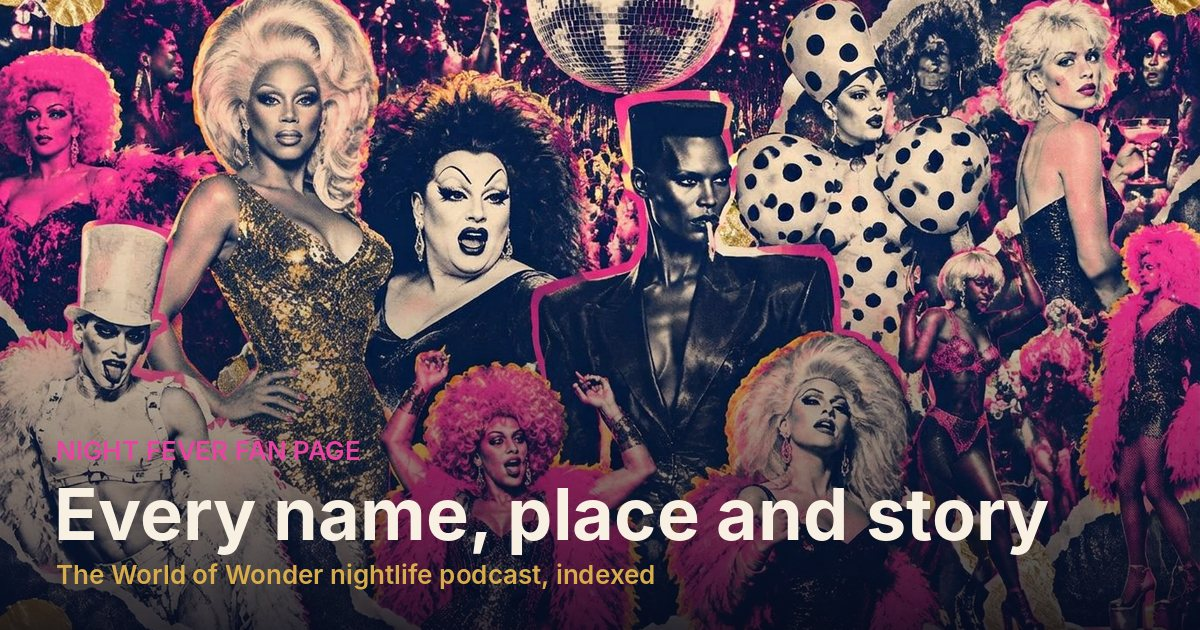
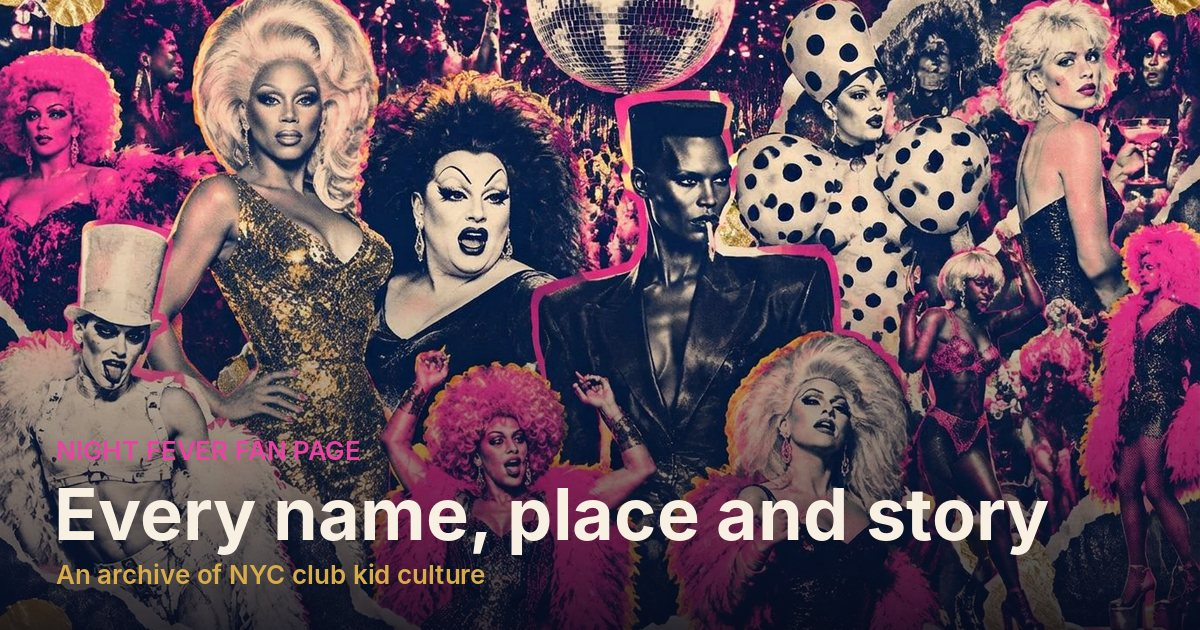
SEO: tagline says the AFTERPARTY is an archive of NYC club kid culture, not a nightlife listings page (home title + description, site-wide description, share text, WebSite JSON-LD, home share picture)
Claude-Session: https://claude.ai/code/session_0192FesoRAKWHZAxeX5KM4ju

Changed region(s): [[0.0308, 0.8746, 0.555, 0.9349]]

diff --git a/src/routes/__root.tsx b/src/routes/__root.tsx
@@ -85,18 +85,18 @@ export const Route = createRootRouteWithContext<{ queryClient: QueryClient }>()(
       { name: "google-site-verification", content: "D1N8TQwOz9IS3c8V40Mwe8r72YsHRgNF2sxzCSOvN5Y" },
       // Search Console property for the own domain https://nightfever-afterparty.com/ (27 Oct 2026) - keep both tags
       { name: "google-site-verification", content: "OSmYxOhIBmHN5GpMphTNxkQz4bBQpsoNDsKShQOGQ1k" },
-      { title: "Night Fever AFTERPARTY - a fan page | every name, place and story" },
+      { title: "Night Fever AFTERPARTY - a fan page | an archive of NYC club kid culture" },
       {
         name: "description",
         content:
-          "My fan-made index of the Night Fever podcast by World of Wonder - timelines, a connection map and a timestamped list of every name, place, song and story. Dive in!",
+          "My fan-made archive of NYC club kid culture from the Night Fever podcast by World of Wonder - every name, club, song and story the guests drop, timestamped. Dive in!",
       },
       { name: "author", content: "Lisa Lang" },
       { property: "og:title", content: "Night Fever AFTERPARTY - a fan page" },
       {
         property: "og:description",
         content:
-          "Every name, place, song and story dropped in the Night Fever interviews - indexed, timestamped and connected!",
+          "An archive of NYC club kid culture: every name, place, song and story dropped in the Night Fever interviews - indexed, timestamped and connected!",
       },
       { property: "og:type", content: "website" },
       { property: "og:site_name", content: "Night Fever AFTERPARTY - a fan page" },
@@ -117,7 +117,7 @@ export const Route = createRootRouteWithContext<{ queryClient: QueryClient }>()(
           alternateName: ["Night Fever AFTERPARTY", "Night Fever fan page"],
           url: "https://nightfever-afterparty.com/",
           description:
-            "An unofficial fan-made index of the Night Fever podcast by World of Wonder: every name, club, place and look the guests mention, timestamped and connected.",
+            "An unofficial fan-made archive of NYC club kid culture, built from the Night Fever podcast by World of Wonder: every name, club, place and look the guests mention, timestamped and connected.",
           inLanguage: "en",
           author: { "@type": "Person", name: "Lisa Lang" },
           about: {

diff --git a/src/routes/index.tsx b/src/routes/index.tsx
@@ -13,7 +13,7 @@ import afterpartyFill from "@/assets/home-afterparty-fill.webp";
 export const Route = createFileRoute("/")({
   staticData: { sitemap: true },
   component: Index,
-  head: () => pageHead({ path: "/", title: "Night Fever podcast fan page – NYC nightlife names, clubs & stories", description: "My fan page for Night Fever, the World of Wonder podcast with James St. James, Fenton Bailey and Randy Barbato - New York nightlife, unpacked and timestamped!", image: "/og/home.jpg" }),
+  head: () => pageHead({ path: "/", title: "Night Fever AFTERPARTY – an archive of NYC club kid culture", description: "My fan-made archive of NYC club kid culture from Night Fever, the World of Wonder podcast with James St. James, Fenton Bailey and Randy Barbato - unpacked and timestamped!", image: "/og/home.jpg" }),
 });
 
 const hosts = [

diff --git a/scripts/og-images.py b/scripts/og-images.py
@@ -69,7 +69,7 @@ for k,(f,g,s,e) in EP.items():
         bg=cover(im).filter(ImageFilter.GaussianBlur(24)); p=im.convert("RGB").resize((H,H)); bg.paste(p,(W-H,0)); im=bg
     else: im=cover(im,0.6)
     label(im,f"NIGHT FEVER · SEASON {s} · EPISODE {e}",g,"Every name, place and look - timestamped").save(O+k+".jpg",quality=84,optimize=True,progressive=True)
-PG={"home":("hero-people.jpg","NIGHT FEVER FAN PAGE","Every name, place and story","The World of Wonder nightlife podcast, indexed"),
+PG={"home":("hero-people.jpg","NIGHT FEVER FAN PAGE","Every name, place and story","An archive of NYC club kid culture"),
 "episodes":("episodes-reference-collage-refined.jpg","NIGHT FEVER FAN PAGE","The Afterparty","Every episode, every reference"),
 "explore":("explore-header.jpg","NIGHT FEVER FAN PAGE","Everything A–Z","Every person, club, song and look"),
 "guests":("guests-header.jpg","NIGHT FEVER FAN PAGE","The guests","Nightlife legends of the 70s, 80s, 90s and beyond"),
